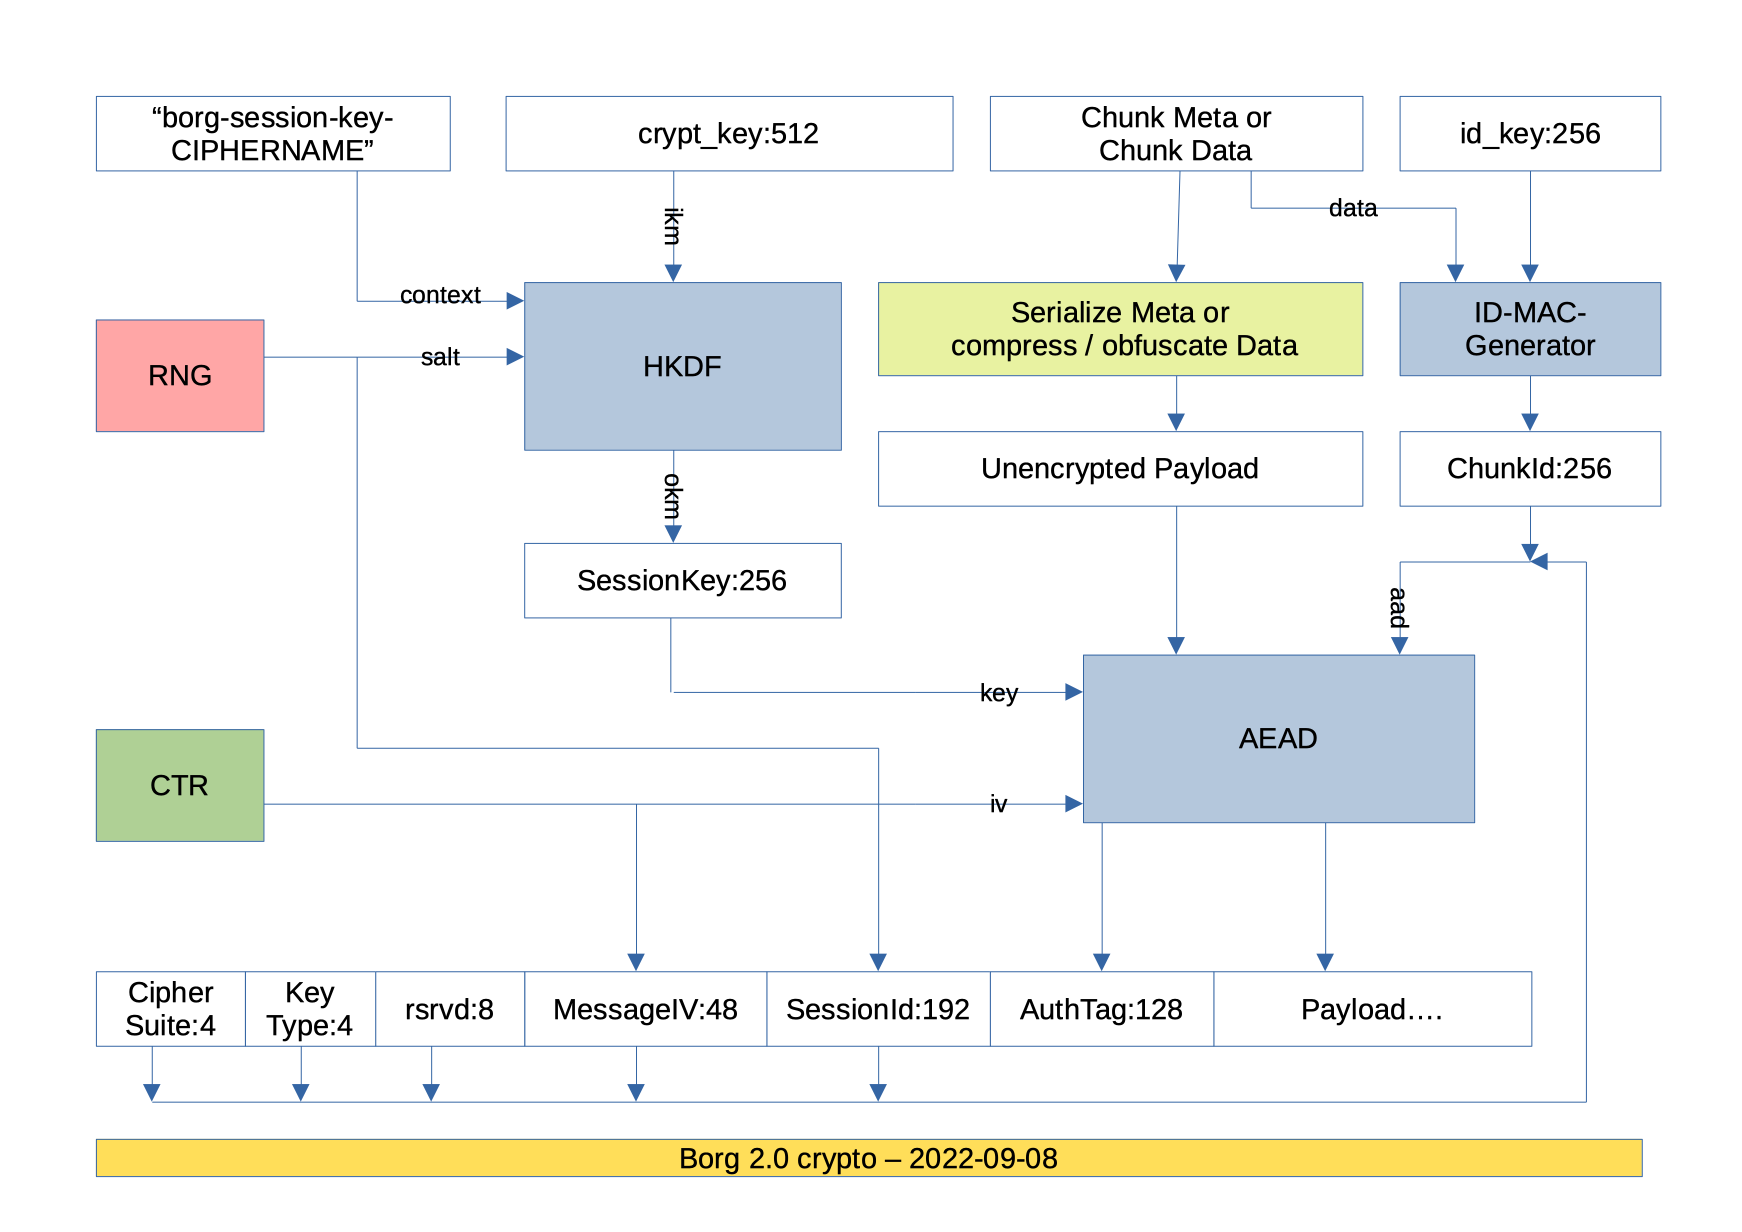
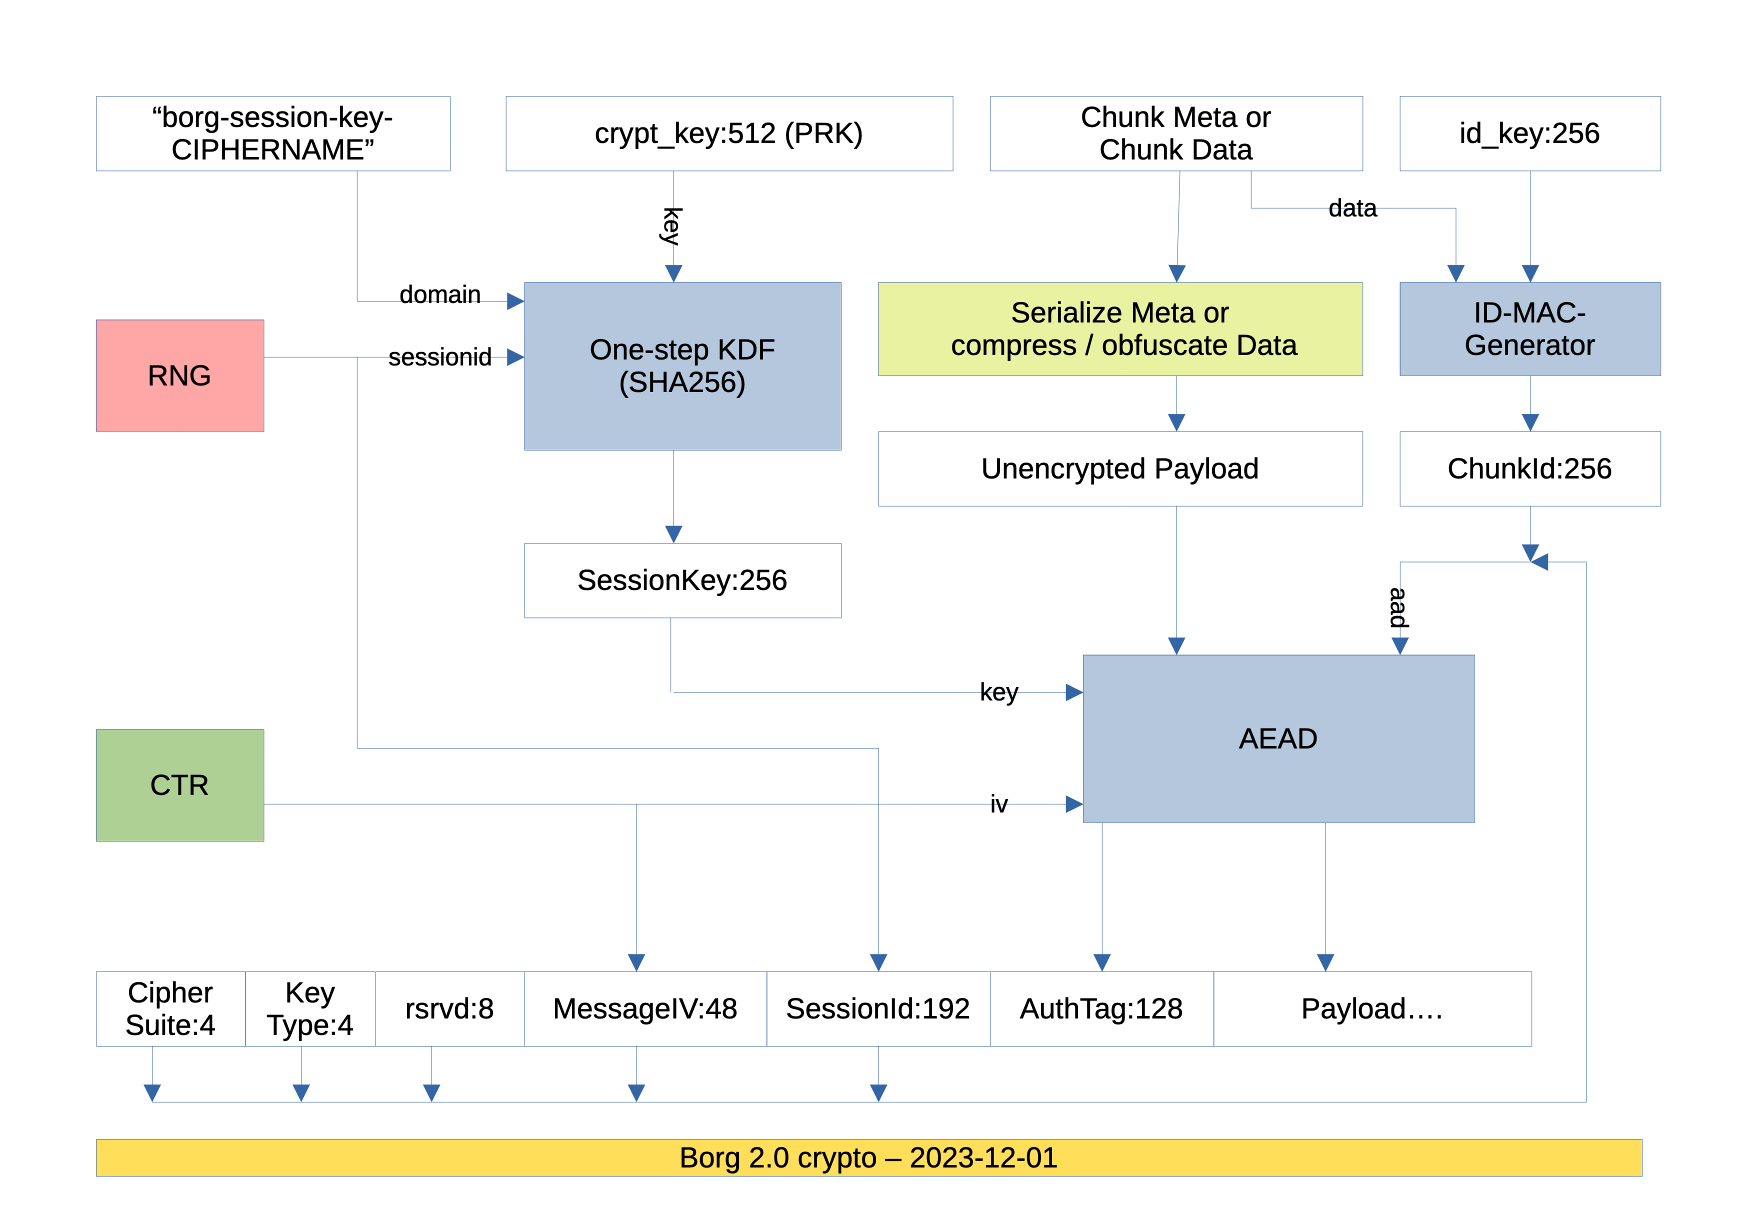
docs: update security docs about new one-step KDF

diff --git a/docs/internals/security.rst b/docs/internals/security.rst
@@ -124,7 +124,8 @@ The chunk ID is derived via a MAC over the plaintext (mac key taken from borg ke
 For each borg invocation, a new session id is generated by `os.urandom`_.
 
 From that session id, the initial key material (ikm, taken from the borg key)
-and an application and cipher specific salt, borg derives a session key via HKDF.
+and an application and cipher specific salt, borg derives a session key using a
+"one-step KDF" based on just sha256.
 
 For each session key, IVs (nonces) are generated by a counter which increments for
 each encrypted message.
@@ -132,9 +133,8 @@ each encrypted message.
 Session::
 
     sessionid = os.urandom(24)
-    ikm = crypt_key
-    salt = "borg-session-key-CIPHERNAME"
-    sessionkey = HKDF(ikm, sessionid, salt)
+    domain = "borg-session-key-CIPHERNAME"
+    sessionkey = sha256(crypt_key + sessionid + domain)
     message_iv = 0
 
 Encryption::
@@ -155,7 +155,9 @@ Decryption::
 
     ASSERT(type-byte is correct)
 
-    past_key = HKDF(ikm, past_sessionid, salt)
+    domain = "borg-session-key-CIPHERNAME"
+    past_key = sha256(crypt_key + past_sessionid + domain)
+
     decrypted = AEAD_decrypt(past_key, past_message_iv, authenticated)
 
     decompressed = decompress(decrypted)
@@ -229,12 +231,7 @@ on widely used libraries providing them:
 - HMAC and a constant-time comparison from Python's hmac_ standard library module are used.
 - argon2 is used via argon2-cffi.
 
-Implemented cryptographic constructions are:
-
-- HKDF_-SHA-512 (using ``hmac.digest`` from Python's hmac_ standard library module)
-
 .. _Horton principle: https://en.wikipedia.org/wiki/Horton_Principle
-.. _HKDF: https://tools.ietf.org/html/rfc5869
 .. _length extension: https://en.wikipedia.org/wiki/Length_extension_attack
 .. _hashlib: https://docs.python.org/3/library/hashlib.html
 .. _hmac: https://docs.python.org/3/library/hmac.html
